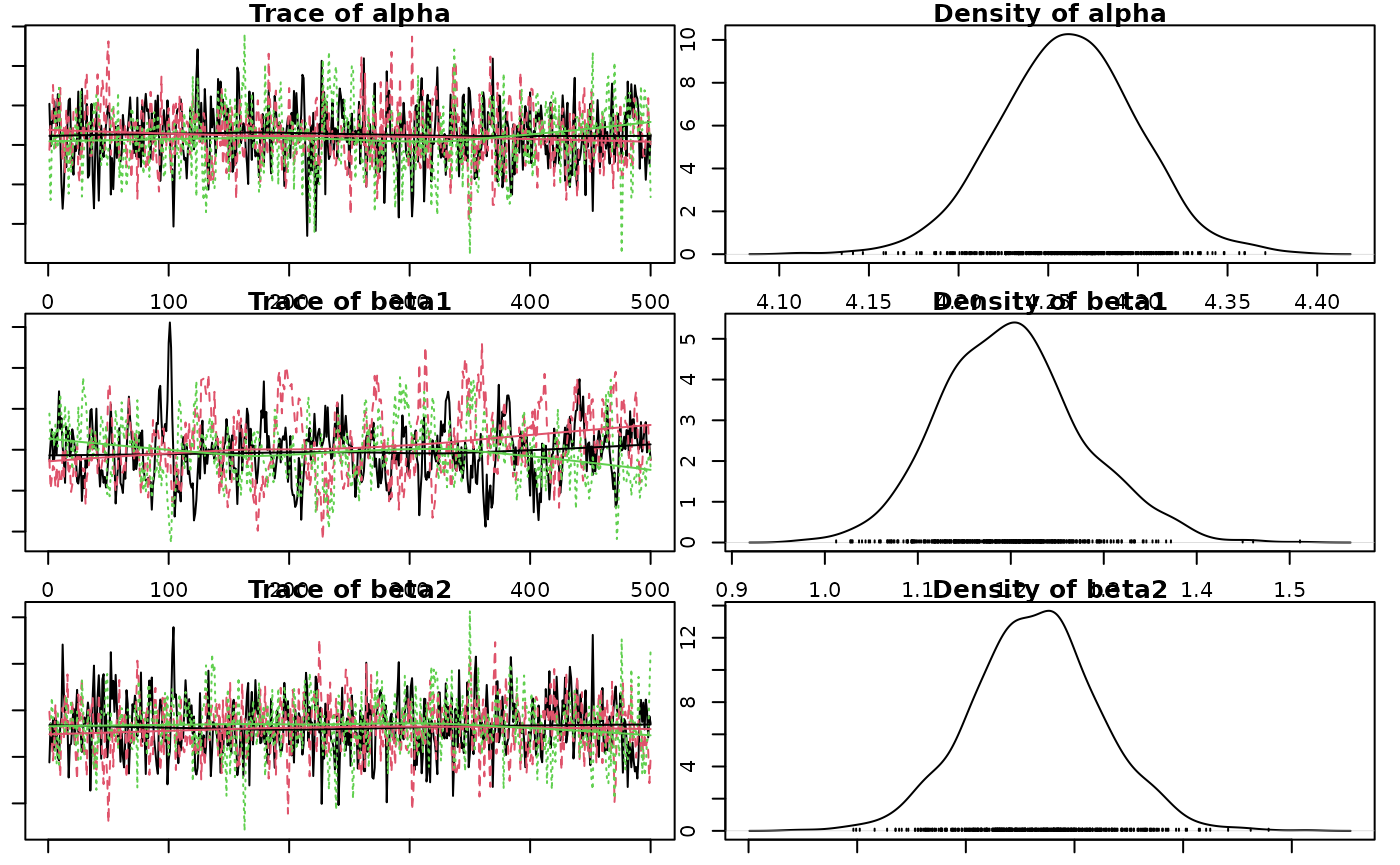
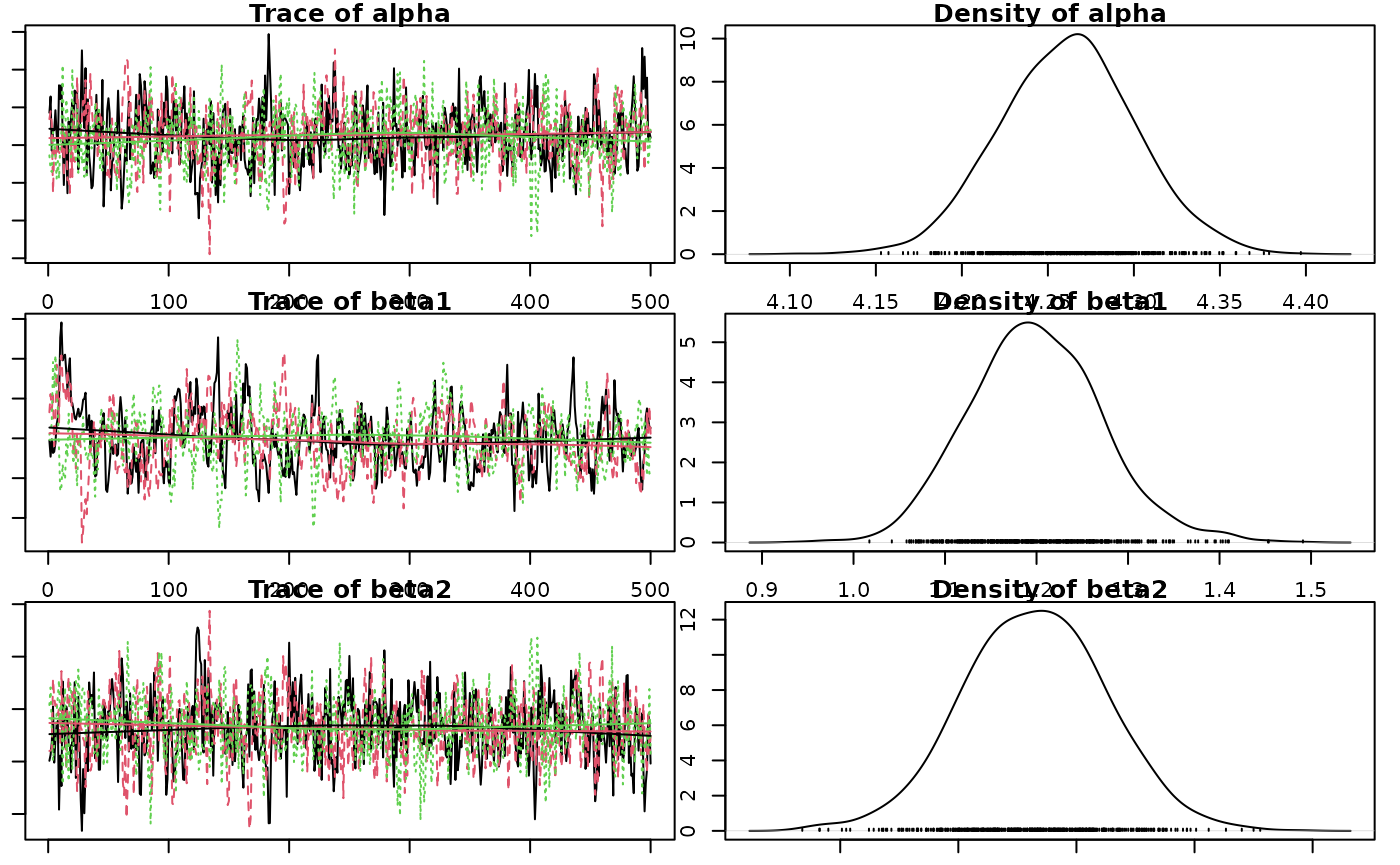
Built site for jmbr@0.0.0.9135: 466105f

diff --git a/articles/jmbr.html b/articles/jmbr.html
@@ -285,14 +285,14 @@ value and discarding all other values.</p>
 <span><span class="co">#&gt; <span style="color: #949494;"># A tibble: 1 × 8</span></span></span>
 <span><span class="co">#&gt;       n     K nchains niters nthin   ess  rhat converged</span></span>
 <span><span class="co">#&gt;   <span style="color: #949494; font-style: italic;">&lt;int&gt;</span> <span style="color: #949494; font-style: italic;">&lt;int&gt;</span>   <span style="color: #949494; font-style: italic;">&lt;int&gt;</span>  <span style="color: #949494; font-style: italic;">&lt;int&gt;</span> <span style="color: #949494; font-style: italic;">&lt;int&gt;</span> <span style="color: #949494; font-style: italic;">&lt;int&gt;</span> <span style="color: #949494; font-style: italic;">&lt;dbl&gt;</span> <span style="color: #949494; font-style: italic;">&lt;lgl&gt;</span>    </span></span>
-<span><span class="co">#&gt; <span style="color: #BCBCBC;">1</span>    40     6       3    500    10   204  1.02 TRUE</span></span>
+<span><span class="co">#&gt; <span style="color: #BCBCBC;">1</span>    40     6       3    500    10   255  1.01 TRUE</span></span>
 <span><span class="co">#&gt; Warning in value[[3L]](cond): beep() could not play the sound due to the following error:</span></span>
 <span><span class="co">#&gt; Error in play.default(x, rate, ...): no audio drivers are available</span></span>
 <span><span class="va">analysis</span> <span class="op">&lt;-</span> <span class="fu"><a href="https://rdrr.io/pkg/embr/man/reanalyse.html" class="external-link">reanalyse</a></span><span class="op">(</span><span class="va">analysis</span><span class="op">)</span></span>
 <span><span class="co">#&gt; <span style="color: #949494;"># A tibble: 1 × 8</span></span></span>
 <span><span class="co">#&gt;       n     K nchains niters nthin   ess  rhat converged</span></span>
 <span><span class="co">#&gt;   <span style="color: #949494; font-style: italic;">&lt;int&gt;</span> <span style="color: #949494; font-style: italic;">&lt;int&gt;</span>   <span style="color: #949494; font-style: italic;">&lt;int&gt;</span>  <span style="color: #949494; font-style: italic;">&lt;int&gt;</span> <span style="color: #949494; font-style: italic;">&lt;int&gt;</span> <span style="color: #949494; font-style: italic;">&lt;int&gt;</span> <span style="color: #949494; font-style: italic;">&lt;dbl&gt;</span> <span style="color: #949494; font-style: italic;">&lt;lgl&gt;</span>    </span></span>
-<span><span class="co">#&gt; <span style="color: #BCBCBC;">1</span>    40     6       3    500    10   204  1.02 TRUE</span></span>
+<span><span class="co">#&gt; <span style="color: #BCBCBC;">1</span>    40     6       3    500    10   255  1.01 TRUE</span></span>
 <span><span class="co">#&gt; Warning in value[[3L]](cond): beep() could not play the sound due to the following error:</span></span>
 <span><span class="co">#&gt; Error in play.default(x, rate, ...): no audio drivers are available</span></span></code></pre></div>
 <p><strong>Analysis Table:</strong></p>
@@ -342,12 +342,12 @@ between- and within-chain estimates for model parameters.
 <span><span class="co">#&gt; <span style="color: #949494;"># A tibble: 6 × 7</span></span></span>
 <span><span class="co">#&gt;   term        estimate     sd  zscore   lower   upper   pvalue</span></span>
 <span><span class="co">#&gt;   <span style="color: #949494; font-style: italic;">&lt;term&gt;</span>         <span style="color: #949494; font-style: italic;">&lt;dbl&gt;</span>  <span style="color: #949494; font-style: italic;">&lt;dbl&gt;</span>   <span style="color: #949494; font-style: italic;">&lt;dbl&gt;</span>   <span style="color: #949494; font-style: italic;">&lt;dbl&gt;</span>   <span style="color: #949494; font-style: italic;">&lt;dbl&gt;</span>    <span style="color: #949494; font-style: italic;">&lt;dbl&gt;</span></span></span>
-<span><span class="co">#&gt; <span style="color: #BCBCBC;">1</span> alpha         4.26   0.038<span style="text-decoration: underline;">6</span> 110.     4.18    4.34   0.000<span style="text-decoration: underline;">666</span></span></span>
-<span><span class="co">#&gt; <span style="color: #BCBCBC;">2</span> beta1         1.20   0.075<span style="text-decoration: underline;">7</span>  15.9    1.06    1.37   0.000<span style="text-decoration: underline;">666</span></span></span>
-<span><span class="co">#&gt; <span style="color: #BCBCBC;">3</span> beta2        -<span style="color: #BB0000;">0.017</span><span style="color: #BB0000; text-decoration: underline;">9</span> 0.029<span style="text-decoration: underline;">8</span>  -<span style="color: #BB0000;">0.599</span> -<span style="color: #BB0000;">0.076</span><span style="color: #BB0000; text-decoration: underline;">0</span>  0.040<span style="text-decoration: underline;">5</span> 0.506   </span></span>
-<span><span class="co">#&gt; <span style="color: #BCBCBC;">4</span> beta3        -<span style="color: #BB0000;">0.274</span>  0.038<span style="text-decoration: underline;">9</span>  -<span style="color: #BB0000;">7.11</span>  -<span style="color: #BB0000;">0.360</span>  -<span style="color: #BB0000;">0.209</span>  0.000<span style="text-decoration: underline;">666</span></span></span>
-<span><span class="co">#&gt; <span style="color: #BCBCBC;">5</span> log_sAnnual  -<span style="color: #BB0000;">2.23</span>   0.317   -<span style="color: #BB0000;">7.15</span>  -<span style="color: #BB0000;">3.03</span>   -<span style="color: #BB0000;">1.75</span>   0.000<span style="text-decoration: underline;">666</span></span></span>
-<span><span class="co">#&gt; <span style="color: #BCBCBC;">6</span> sAnnual       0.108  0.031<span style="text-decoration: underline;">1</span>   3.49   0.048<span style="text-decoration: underline;">1</span>  0.174  0.000<span style="text-decoration: underline;">666</span></span></span></code></pre></div>
+<span><span class="co">#&gt; <span style="color: #BCBCBC;">1</span> alpha         4.26   0.039<span style="text-decoration: underline;">3</span> 109.     4.19    4.34   0.000<span style="text-decoration: underline;">666</span></span></span>
+<span><span class="co">#&gt; <span style="color: #BCBCBC;">2</span> beta1         1.20   0.072<span style="text-decoration: underline;">8</span>  16.5    1.07    1.35   0.000<span style="text-decoration: underline;">666</span></span></span>
+<span><span class="co">#&gt; <span style="color: #BCBCBC;">3</span> beta2        -<span style="color: #BB0000;">0.017</span><span style="color: #BB0000; text-decoration: underline;">5</span> 0.030<span style="text-decoration: underline;">4</span>  -<span style="color: #BB0000;">0.584</span> -<span style="color: #BB0000;">0.079</span><span style="color: #BB0000; text-decoration: underline;">2</span>  0.040<span style="text-decoration: underline;">5</span> 0.566   </span></span>
+<span><span class="co">#&gt; <span style="color: #BCBCBC;">4</span> beta3        -<span style="color: #BB0000;">0.274</span>  0.036<span style="text-decoration: underline;">8</span>  -<span style="color: #BB0000;">7.48</span>  -<span style="color: #BB0000;">0.352</span>  -<span style="color: #BB0000;">0.207</span>  0.000<span style="text-decoration: underline;">666</span></span></span>
+<span><span class="co">#&gt; <span style="color: #BCBCBC;">5</span> log_sAnnual  -<span style="color: #BB0000;">2.22</span>   0.291   -<span style="color: #BB0000;">7.72</span>  -<span style="color: #BB0000;">2.87</span>   -<span style="color: #BB0000;">1.72</span>   0.000<span style="text-decoration: underline;">666</span></span></span>
+<span><span class="co">#&gt; <span style="color: #BCBCBC;">6</span> sAnnual       0.109  0.030<span style="text-decoration: underline;">8</span>   3.59   0.056<span style="text-decoration: underline;">9</span>  0.179  0.000<span style="text-decoration: underline;">666</span></span></span></code></pre></div>
 <p>The estimate is the <strong>median</strong> by default.</p>
 <p>The zscore is <span class="math inline">mean / sd</span>.</p>
 <div class="sourceCode" id="cb12"><pre class="downlit sourceCode r">
@@ -355,12 +355,12 @@ between- and within-chain estimates for model parameters.
 <span><span class="co">#&gt; <span style="color: #949494;"># A tibble: 6 × 5</span></span></span>
 <span><span class="co">#&gt;   term        estimate   lower   upper svalue</span></span>
 <span><span class="co">#&gt;   <span style="color: #949494; font-style: italic;">&lt;term&gt;</span>         <span style="color: #949494; font-style: italic;">&lt;dbl&gt;</span>   <span style="color: #949494; font-style: italic;">&lt;dbl&gt;</span>   <span style="color: #949494; font-style: italic;">&lt;dbl&gt;</span>  <span style="color: #949494; font-style: italic;">&lt;dbl&gt;</span></span></span>
-<span><span class="co">#&gt; <span style="color: #BCBCBC;">1</span> alpha         4.26    4.18    4.34   10.6  </span></span>
-<span><span class="co">#&gt; <span style="color: #BCBCBC;">2</span> beta1         1.20    1.06    1.37   10.6  </span></span>
-<span><span class="co">#&gt; <span style="color: #BCBCBC;">3</span> beta2        -<span style="color: #BB0000;">0.017</span><span style="color: #BB0000; text-decoration: underline;">9</span> -<span style="color: #BB0000;">0.076</span><span style="color: #BB0000; text-decoration: underline;">0</span>  0.040<span style="text-decoration: underline;">5</span>  0.984</span></span>
-<span><span class="co">#&gt; <span style="color: #BCBCBC;">4</span> beta3        -<span style="color: #BB0000;">0.274</span>  -<span style="color: #BB0000;">0.360</span>  -<span style="color: #BB0000;">0.209</span>  10.6  </span></span>
-<span><span class="co">#&gt; <span style="color: #BCBCBC;">5</span> log_sAnnual  -<span style="color: #BB0000;">2.23</span>   -<span style="color: #BB0000;">3.03</span>   -<span style="color: #BB0000;">1.75</span>   10.6  </span></span>
-<span><span class="co">#&gt; <span style="color: #BCBCBC;">6</span> sAnnual       0.108   0.048<span style="text-decoration: underline;">1</span>  0.174  10.6</span></span></code></pre></div>
+<span><span class="co">#&gt; <span style="color: #BCBCBC;">1</span> alpha         4.26    4.19    4.34   10.6  </span></span>
+<span><span class="co">#&gt; <span style="color: #BCBCBC;">2</span> beta1         1.20    1.07    1.35   10.6  </span></span>
+<span><span class="co">#&gt; <span style="color: #BCBCBC;">3</span> beta2        -<span style="color: #BB0000;">0.017</span><span style="color: #BB0000; text-decoration: underline;">5</span> -<span style="color: #BB0000;">0.079</span><span style="color: #BB0000; text-decoration: underline;">2</span>  0.040<span style="text-decoration: underline;">5</span>  0.822</span></span>
+<span><span class="co">#&gt; <span style="color: #BCBCBC;">4</span> beta3        -<span style="color: #BB0000;">0.274</span>  -<span style="color: #BB0000;">0.352</span>  -<span style="color: #BB0000;">0.207</span>  10.6  </span></span>
+<span><span class="co">#&gt; <span style="color: #BCBCBC;">5</span> log_sAnnual  -<span style="color: #BB0000;">2.22</span>   -<span style="color: #BB0000;">2.87</span>   -<span style="color: #BB0000;">1.72</span>   10.6  </span></span>
+<span><span class="co">#&gt; <span style="color: #BCBCBC;">6</span> sAnnual       0.109   0.056<span style="text-decoration: underline;">9</span>  0.179  10.6</span></span></code></pre></div>
 <p>The s-value is the <strong>suprisal</strong> value, which is a
 measure of directionality with respect to zero.</p>
 <p>The s-value is zero (unsurprising) when <em>p-value</em> = 1.0 and
